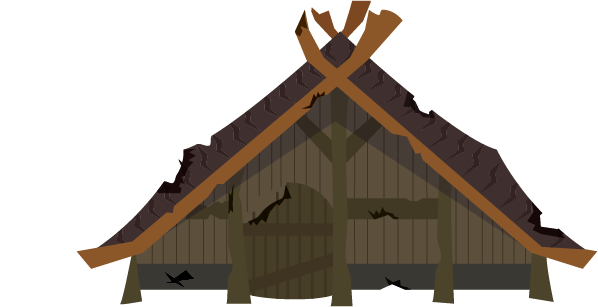
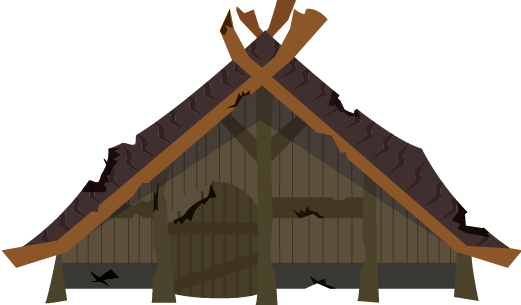
Decorator Sprite Tweak / Tag Clean Attempt
Cropped a couple of building images to fix weirdness when their sprites were updated.
Also tried briefly to find a solution for the decorator that doesn't use tags

Changed region(s): [[0.0, 0.0, 1.0, 1.0], [0.5221, 0.6787, 0.6756, 0.8852], [0.5221, 0.4721, 0.5835, 0.5311]]

diff --git a/Assets/Scripts/PCG/AddRoom.cs b/Assets/Scripts/PCG/AddRoom.cs
@@ -21,10 +21,32 @@ public class AddRoom : MonoBehaviour
 
     private void Decorate(GameObject room)
     {
+        /*
+        List<GameObject> trees = new List<GameObject>();
+        List<GameObject> buildings = new List<GameObject>();
+
+        int i = 0, j = 0;
+        GameObject[] gameobjs = GetComponents<GameObject>();
+        foreach (GameObject child in gameobjs) {
+            Debug.Log(child.name);
+            if (child.name.Contains("TreeSpawnPoint")) {
+                trees.Insert(i, child);
+                i += 1;
+            }
+            if (child.name.Contains("BuildingSpawnPoint")) {
+                buildings.Insert(j, child);
+                j += 1;
+            }
+        }
+        */
+        
         GameObject[] trees = GameObject.FindGameObjectsWithTag("TreeSpawnPoint");
-        Sprite[] treeSprites = Resources.LoadAll<Sprite>("Trees");
+        // GameObject[] trees = GameObject.Find("Tree/TreeSpawnPoint");
 
         GameObject[] buildings = GameObject.FindGameObjectsWithTag("BuildingSpawnPoint");
+        // GameObject[] buildings = GameObject.Find("BuildingSpawnPoint");
+
+        Sprite[] treeSprites = Resources.LoadAll<Sprite>("Trees");
         Sprite[] buildingSprites = Resources.LoadAll<Sprite>("Buildings");
 
         foreach (GameObject tree in trees) {
